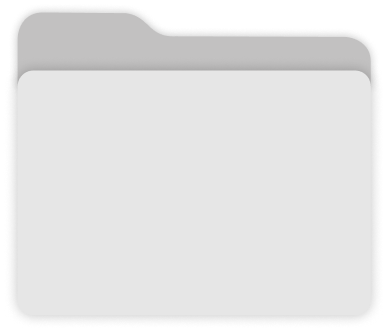
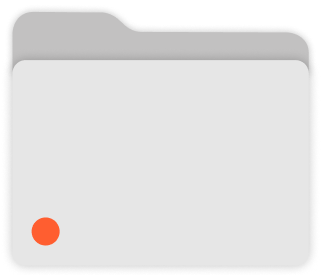
changed images

diff --git a/css/allLinks.css b/css/allLinks.css
@@ -68,9 +68,11 @@ svg {
   z-index: -1;
   width: 602px;
   height: 386px;
-  top: 284.5px;
-  left: 339px;
-  /* transform: translateX(-50%); */
+  /* top: 50%; */
+  top: 282px;
+  left: 50%;
+  /* transform: translate(-50%, -50%); */
+  transform: translateX(-50%);
 }
 
 .category-navbar {
